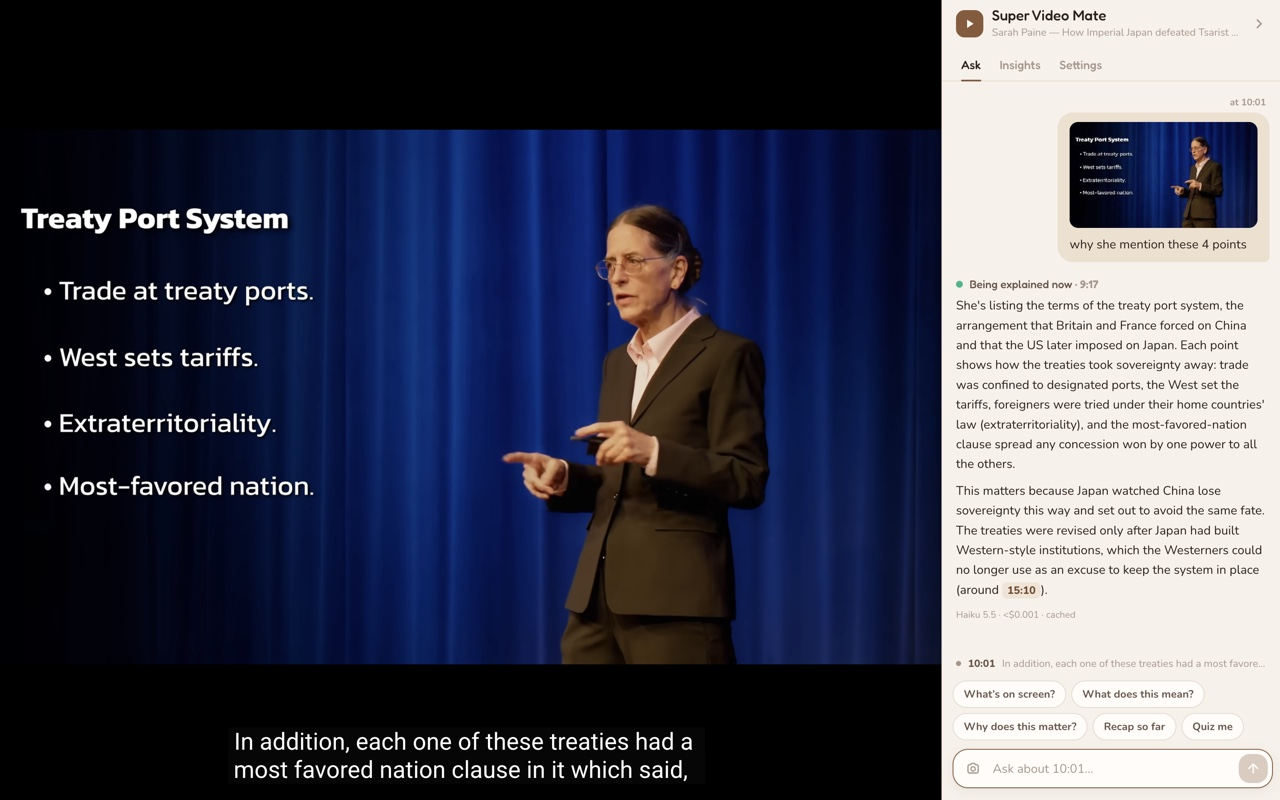
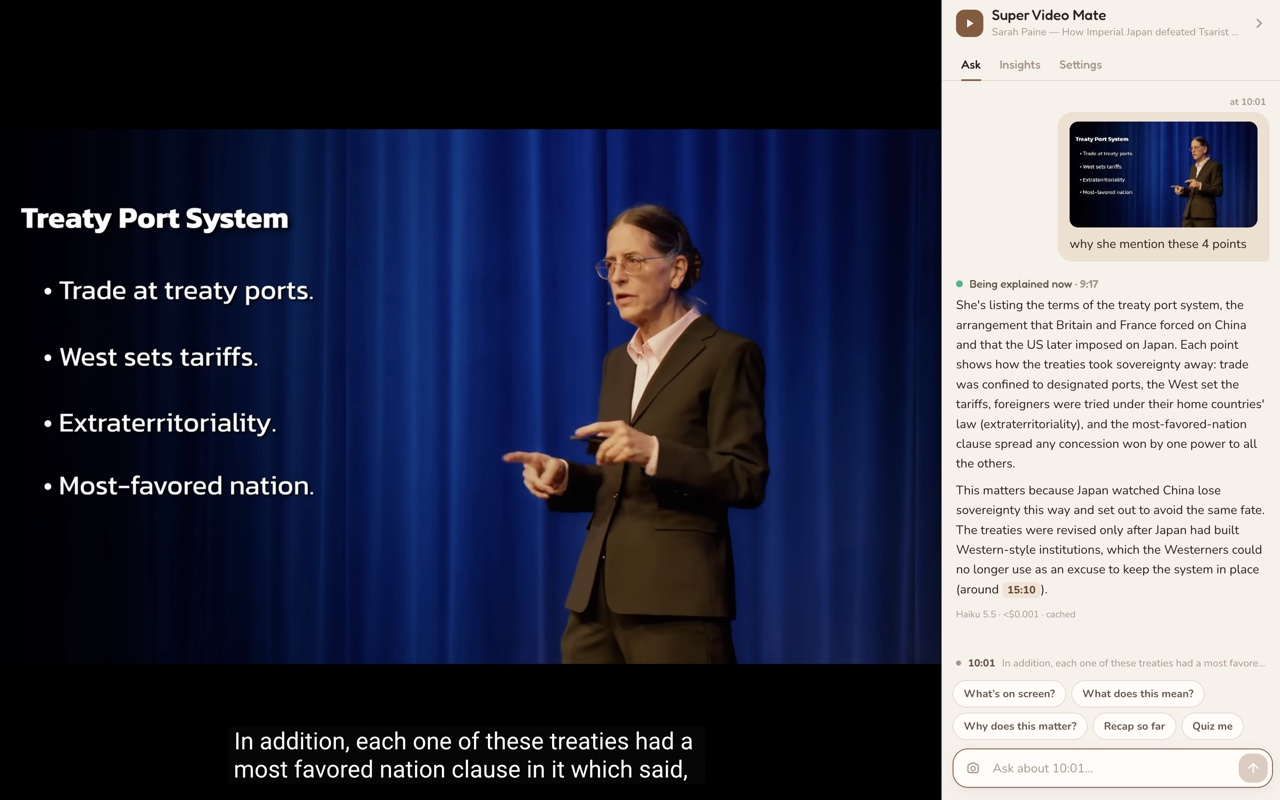
chore: add remind-me store screenshot, crop reliably
sips --cropOffset ignored or misplaced the offset, so the menu bar of a
full-screen capture survived. Crop with CoreGraphics instead.

diff --git a/store-assets/STORE_LISTING.md b/store-assets/STORE_LISTING.md
@@ -36,10 +36,9 @@ Requires your own Anthropic API key (console.anthropic.com). Your questions go d
 
 **Screenshots (1280×800 JPEG), upload in this order** from `store-assets/screenshots/`:
 1. `1-frame-question-light.jpg` (asking about a slide with the frame attached)
-2. `2-remind-me.jpg` (explained later + reminder toast) *(to retake)*
+2. `2-remind-me.jpg` (explained later + reminder toast, YouTube dark theme)
 3. `3-insights.jpg` (Insights after clearing personal history) *(to retake)*
-4. `4-dark-mode.jpg` (any feature on an educational video, YouTube dark theme) *(to retake)*
-5. `5-settings.jpg`
+4. `5-settings.jpg`
 
 Put raw Mac screenshots in `store-assets/raw/` named `<n>-<name>.png`, then run `scripts/screenshots.sh`.
 
